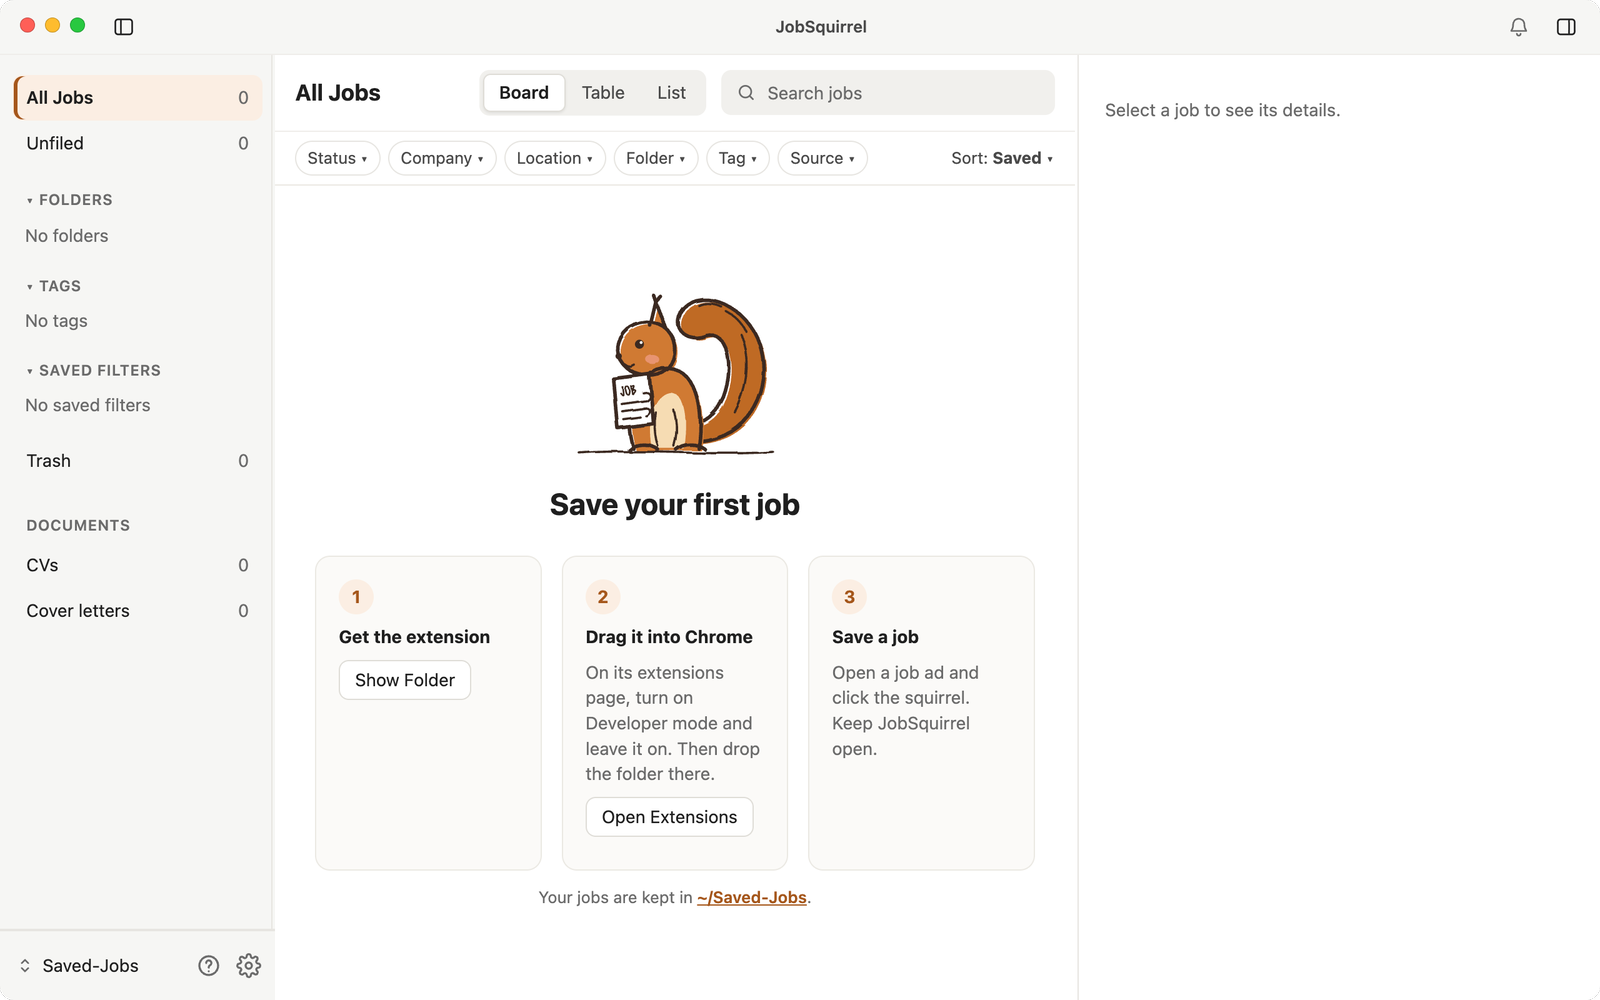
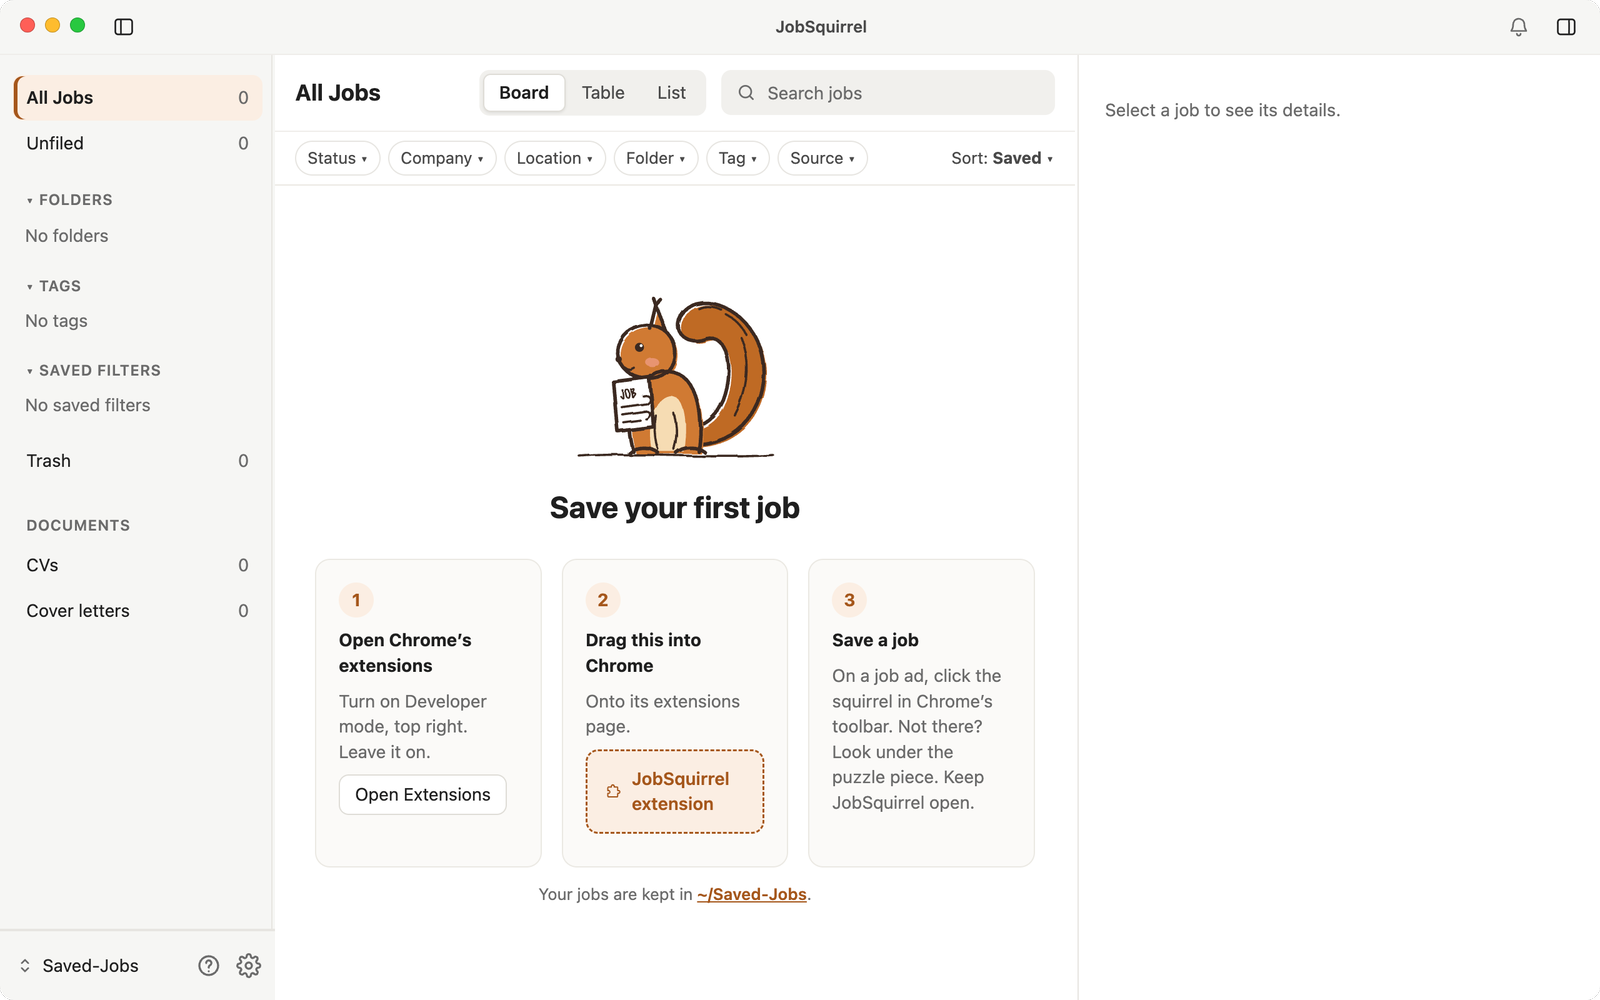
0.1.2: the extension is one drag, with its own download

diff --git a/index.html b/index.html
@@ -53,12 +53,12 @@
     <h1>Your personal all-in-one <u>job hunting dashboard.</u></h1>
     <p>Save any job ad with one click. Then see every application, deadline, interview and CV on one screen.</p>
     <div class="cta">
-      <a class="btn primary" href="https://github.com/foxnz/landfern/releases/download/v0.1.1/JobSquirrel-0.1.1-universal.dmg">Download for Mac</a>
-      <a class="btn primary" href="https://github.com/foxnz/landfern/releases/download/v0.1.1/JobSquirrel-Setup-0.1.1.exe">Download for Windows</a>
+      <a class="btn primary" href="https://github.com/foxnz/landfern/releases/download/v0.1.2/JobSquirrel-0.1.2-universal.dmg">Download for Mac</a>
+      <a class="btn primary" href="https://github.com/foxnz/landfern/releases/download/v0.1.2/JobSquirrel-Setup-0.1.2.exe">Download for Windows</a>
       <a class="btn ghost" href="https://github.com/foxnz/landfern">Star on GitHub</a>
     </div>
     <p class="small">Free · No account · macOS 14 or later · Windows 10 or 11 (<a href="#windows-warning">if it warns you</a>)</p>
-    <p class="small">The Chrome extension comes with the app. <a href="#extension">How to add it</a></p>
+    <p class="small">Then <a href="#extension">add it to Chrome</a>: one drag</p>
     <figure class="shot shot-main">
       <img src="screens/board.png" width="1600" height="1000"
            alt="The JobSquirrel board: jobs as cards in columns from Interested to Offer, with the selected job's salary, closing date, follow-up, tags and CV at the right.">
@@ -96,19 +96,20 @@
 
   <section id="extension">
     <div class="wrap">
-      <h2>Where’s the Chrome extension?</h2>
-      <p class="lead">In the app. There is nothing else to download: JobSquirrel’s first screen adds it to Chrome.</p>
+      <h2>Add it to Chrome: one drag</h2>
+      <p class="lead">The Chrome extension is in the app, on its first screen. It is also one file you can download.</p>
+      <div class="cta left"><a class="btn ghost" href="https://github.com/foxnz/landfern/releases/download/v0.1.2/jobsquirrel-extension-0.1.2.zip">Download the Chrome extension</a></div>
+      <div class="steps">
+        <div class="card"><div class="step">1</div><h3>Open Chrome’s extensions</h3><p>Type <b>chrome://extensions</b> in Chrome. Turn on <b>Developer mode</b>, top right, and leave it on.</p></div>
+        <svg class="arrow" viewBox="0 0 46 30" aria-hidden="true"><path class="ink thin" d="M3 18 C15 8 28 22 40 13 M33 9 L41 13 L35 20" filter="url(#rough)"/></svg>
+        <div class="card"><div class="step">2</div><h3>Drag it in</h3><p>From JobSquirrel’s first screen, or the downloaded file. No need to unzip.</p></div>
+        <svg class="arrow" viewBox="0 0 46 30" aria-hidden="true"><path class="ink thin" d="M3 18 C15 8 28 22 40 13 M33 9 L41 13 L35 20" filter="url(#rough)"/></svg>
+        <div class="card"><div class="step">3</div><h3>Click the squirrel</h3><p>It is in Chrome’s toolbar. Not there? Look under the puzzle piece.</p></div>
+      </div>
       <figure class="shot shot-main">
         <img src="screens/welcome.png" width="1600" height="1000" loading="lazy"
-             alt="JobSquirrel’s first screen: 1. Get the extension, with a Show Folder button. 2. Drag it into Chrome, with an Open Extensions button. 3. Save a job.">
+             alt="JobSquirrel’s first screen: 1. Open Chrome’s extensions. 2. Drag this into Chrome, with the JobSquirrel extension to drag. 3. Save a job.">
       </figure>
-      <div class="steps">
-        <div class="card"><div class="step">1</div><h3>Show Folder</h3><p>The extension is this folder. Later, find it in <b>Help → Get the Extension…</b></p></div>
-        <svg class="arrow" viewBox="0 0 46 30" aria-hidden="true"><path class="ink thin" d="M3 18 C15 8 28 22 40 13 M33 9 L41 13 L35 20" filter="url(#rough)"/></svg>
-        <div class="card"><div class="step">2</div><h3>Drag it into Chrome</h3><p>On Chrome’s extensions page, with <b>Developer mode</b> on. Leave it on.</p></div>
-        <svg class="arrow" viewBox="0 0 46 30" aria-hidden="true"><path class="ink thin" d="M3 18 C15 8 28 22 40 13 M33 9 L41 13 L35 20" filter="url(#rough)"/></svg>
-        <div class="card"><div class="step">3</div><h3>Pin the squirrel</h3><p>Click Chrome’s puzzle piece, then the pin next to JobSquirrel.</p></div>
-      </div>
     </div>
   </section>
 
@@ -233,8 +234,8 @@
       <h2>It’s in beta. Help shape it.</h2>
       <p class="lead">Something broken, confusing or missing? Tell us, and a person reads it.</p>
       <div class="cta left">
-        <a class="btn primary" href="https://github.com/foxnz/landfern/releases/download/v0.1.1/JobSquirrel-0.1.1-universal.dmg">Download for Mac</a>
-        <a class="btn primary" href="https://github.com/foxnz/landfern/releases/download/v0.1.1/JobSquirrel-Setup-0.1.1.exe">Download for Windows</a>
+        <a class="btn primary" href="https://github.com/foxnz/landfern/releases/download/v0.1.2/JobSquirrel-0.1.2-universal.dmg">Download for Mac</a>
+        <a class="btn primary" href="https://github.com/foxnz/landfern/releases/download/v0.1.2/JobSquirrel-Setup-0.1.2.exe">Download for Windows</a>
         <a class="btn ghost" href="contact.html">Send feedback</a>
       </div>
     </div>

diff --git a/help.html b/help.html
@@ -74,7 +74,7 @@
         <h2>Install</h2>
         <h3>1. The app</h3>
         <ol class="do">
-          <li>Download JobSquirrel: <a href="https://github.com/foxnz/landfern/releases/download/v0.1.1/JobSquirrel-0.1.1-universal.dmg"><b>for Mac</b></a> (macOS 14 or later) or <a href="https://github.com/foxnz/landfern/releases/download/v0.1.1/JobSquirrel-Setup-0.1.1.exe"><b>for Windows</b></a> (10 or 11, 64-bit).</li>
+          <li>Download JobSquirrel: <a href="https://github.com/foxnz/landfern/releases/download/v0.1.2/JobSquirrel-0.1.2-universal.dmg"><b>for Mac</b></a> (macOS 14 or later) or <a href="https://github.com/foxnz/landfern/releases/download/v0.1.2/JobSquirrel-Setup-0.1.2.exe"><b>for Windows</b></a> (10 or 11, 64-bit).</li>
           <li>Mac: open the download and drag JobSquirrel into your <b>Applications</b> folder. Windows: open the download; if Windows warns you, click <b>More info</b>, then <b>Run anyway</b>.</li>
           <li>JobSquirrel opens with a library called <b>Saved-Jobs</b> in your home folder. That is where your jobs are kept. You can start using it straight away.</li>
         </ol>
@@ -82,12 +82,12 @@
 
         <h3>2. The Chrome extension</h3>
         <ol class="do">
-          <li>In JobSquirrel, click <b>Show Folder</b> on the first screen, or choose <b>Help → Get the Extension…</b>. JobSquirrel keeps this folder up to date.</li>
-          <li>Click <b>Open Extensions</b>, or go to <kbd>chrome://extensions</kbd> in Chrome, and turn on <b>Developer mode</b> (top right). Leave it on: Chrome turns the extension off without it. On Windows the button copies the address: press <kbd>Ctrl</kbd> <kbd>V</kbd> in Chrome.</li>
-          <li>Drag the folder onto that page, or click <b>Load unpacked</b> and choose it.</li>
-          <li>Click the puzzle piece in Chrome's toolbar and pin <b>JobSquirrel</b>, so the squirrel is always one click away.</li>
+          <li>On JobSquirrel's first screen, click <b>Open Extensions</b> (on Windows <b>Open Chrome</b>, then press <kbd>Ctrl</kbd> <kbd>V</kbd>), or type <kbd>chrome://extensions</kbd> in Chrome. Turn on <b>Developer mode</b> (top right). Leave it on: Chrome turns the extension off without it.</li>
+          <li>Drag <b>JobSquirrel extension</b> from JobSquirrel onto that page. The first screen shows a check mark when it is connected.</li>
+          <li>The squirrel is in Chrome's toolbar. Not there? Click the puzzle piece and pin <b>JobSquirrel</b>.</li>
         </ol>
-        <div class="tip">Keep the unzipped folder where it is. Chrome loads the extension from it, so deleting the folder removes the extension.</div>
+        <p>Later, find it in <b>Help → Get the Extension…</b> It is also <a href="https://github.com/foxnz/landfern/releases/download/v0.1.2/jobsquirrel-extension-0.1.2.zip">one file to download</a>: drag it onto the same page, without unzipping it. A copy dragged from the app updates itself; a downloaded copy does not.</p>
+        <div class="tip">Keep the <b>Saved-Jobs-Extension</b> folder in your home folder. Chrome loads the extension from it.</div>
 
         <h3 id="uninstall">Uninstall</h3>
         <p>Your jobs stay in your library folder until you delete it yourself.</p>
